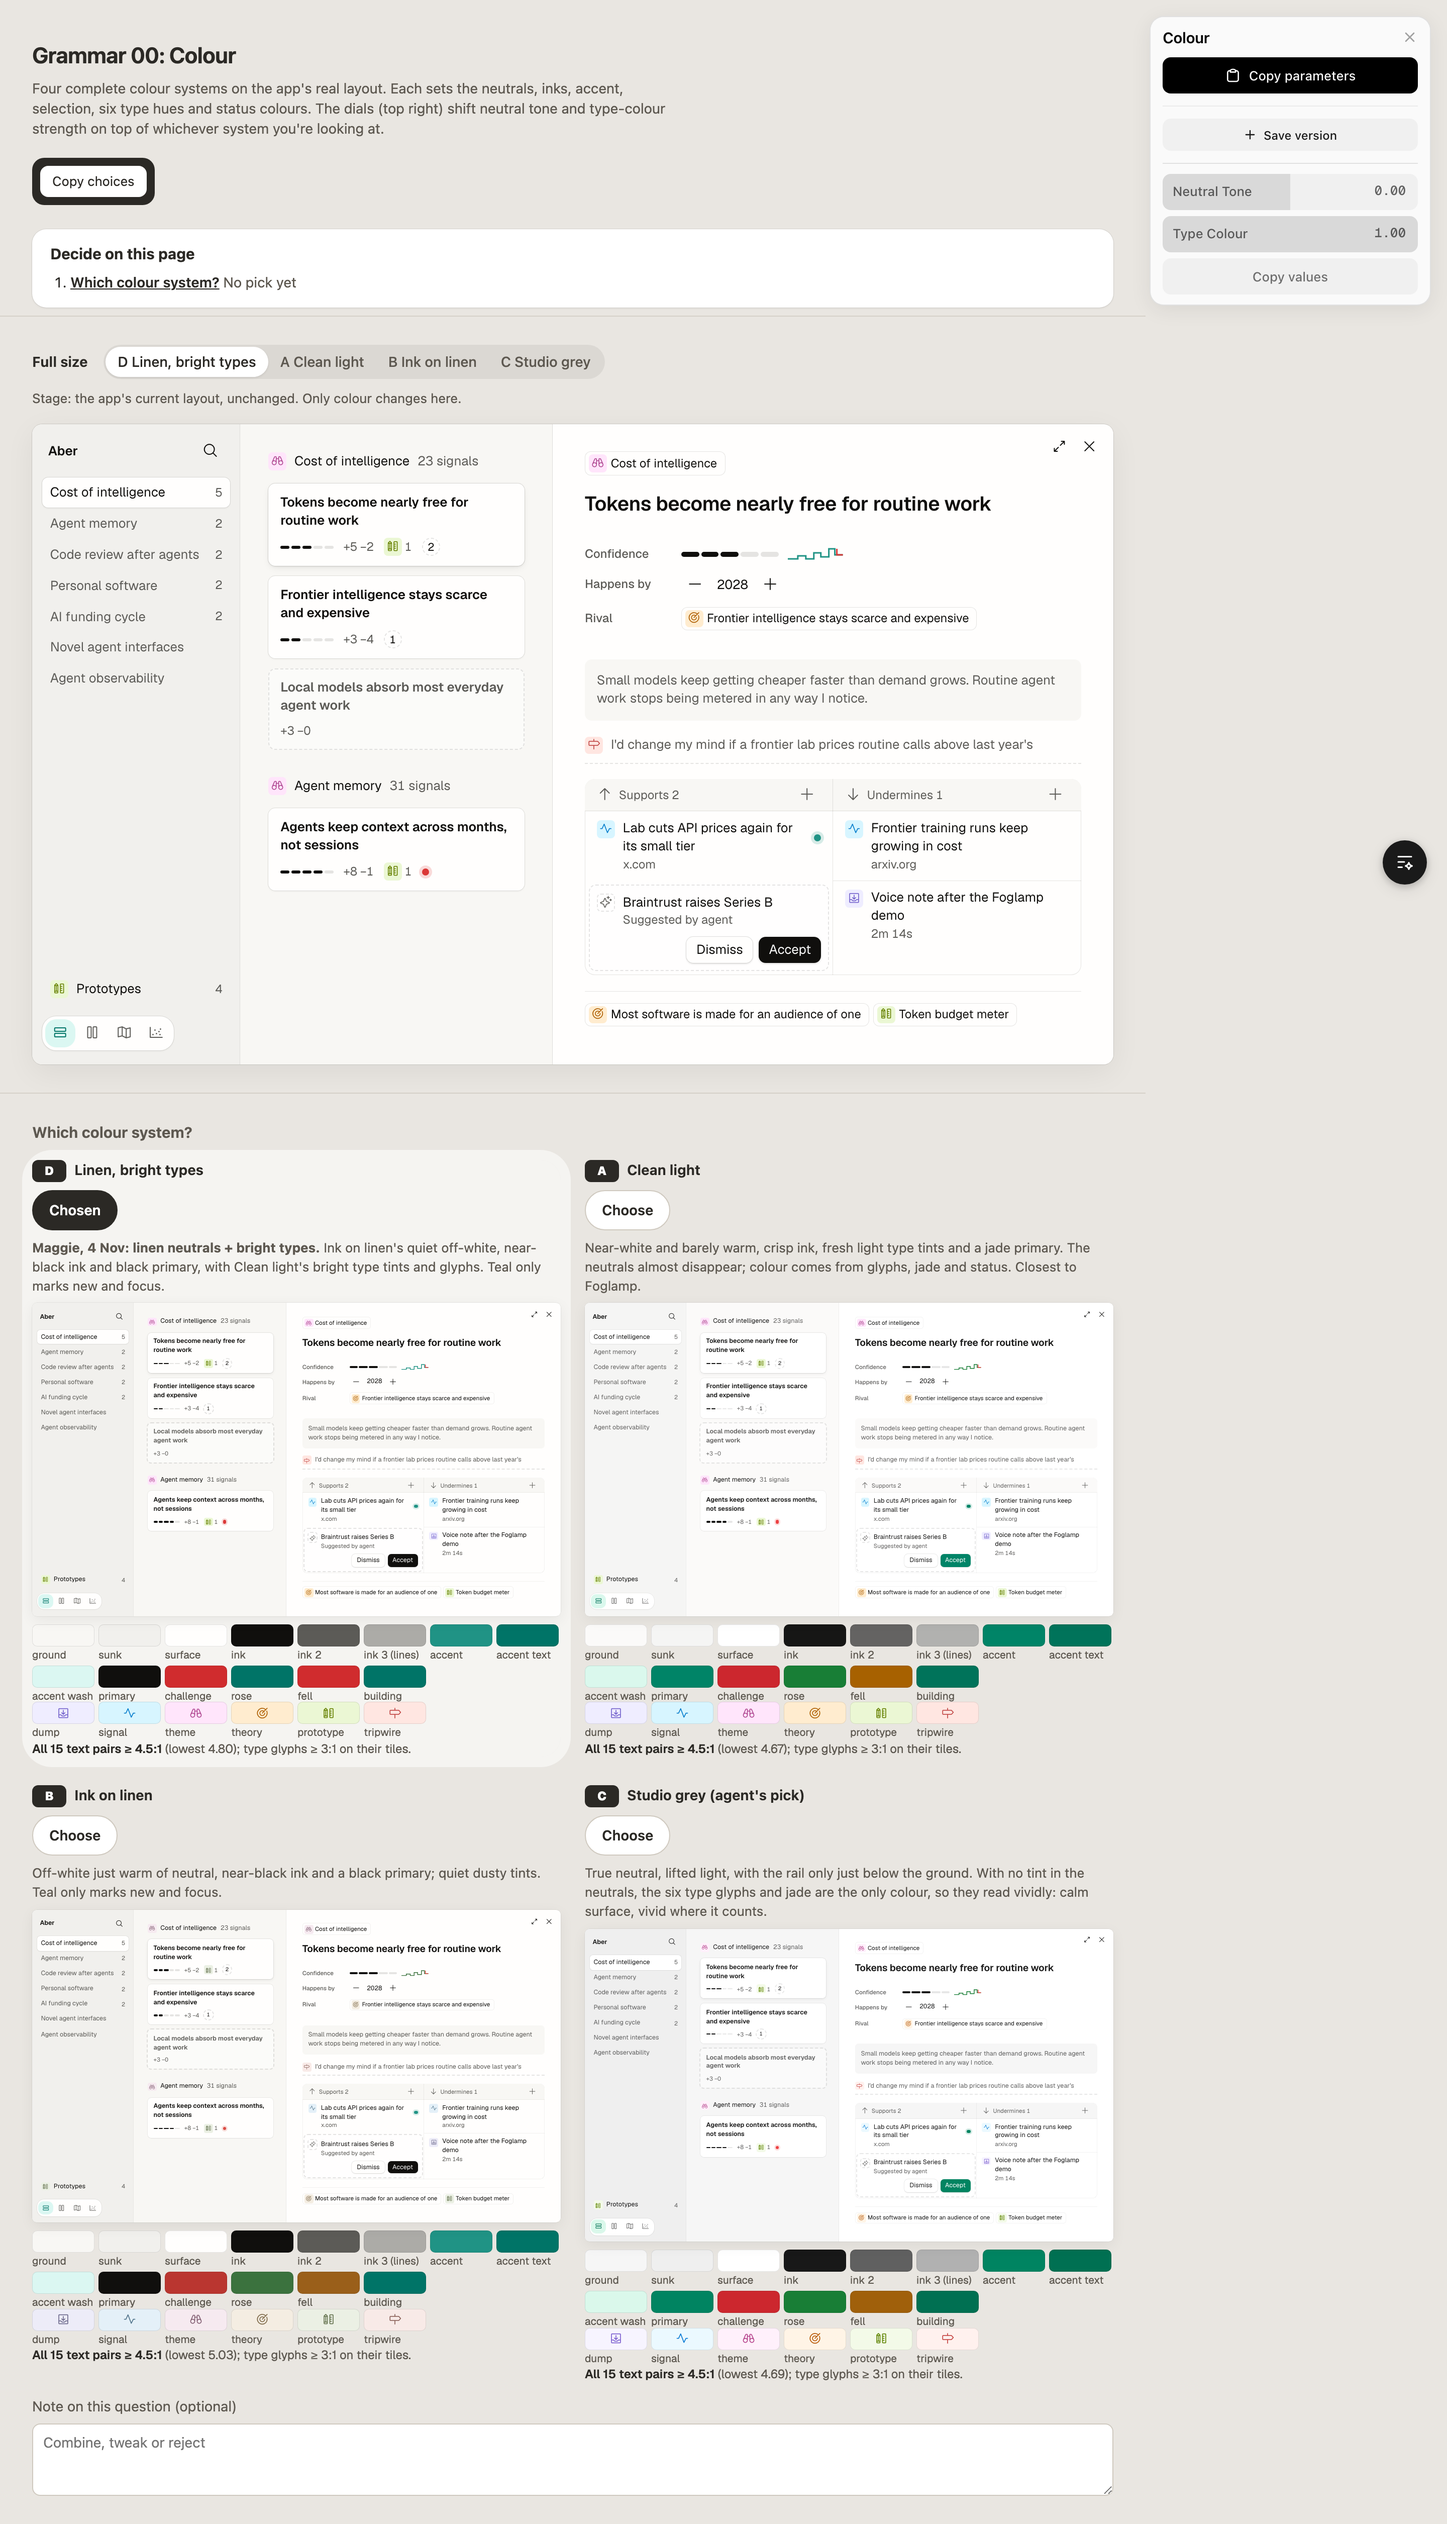
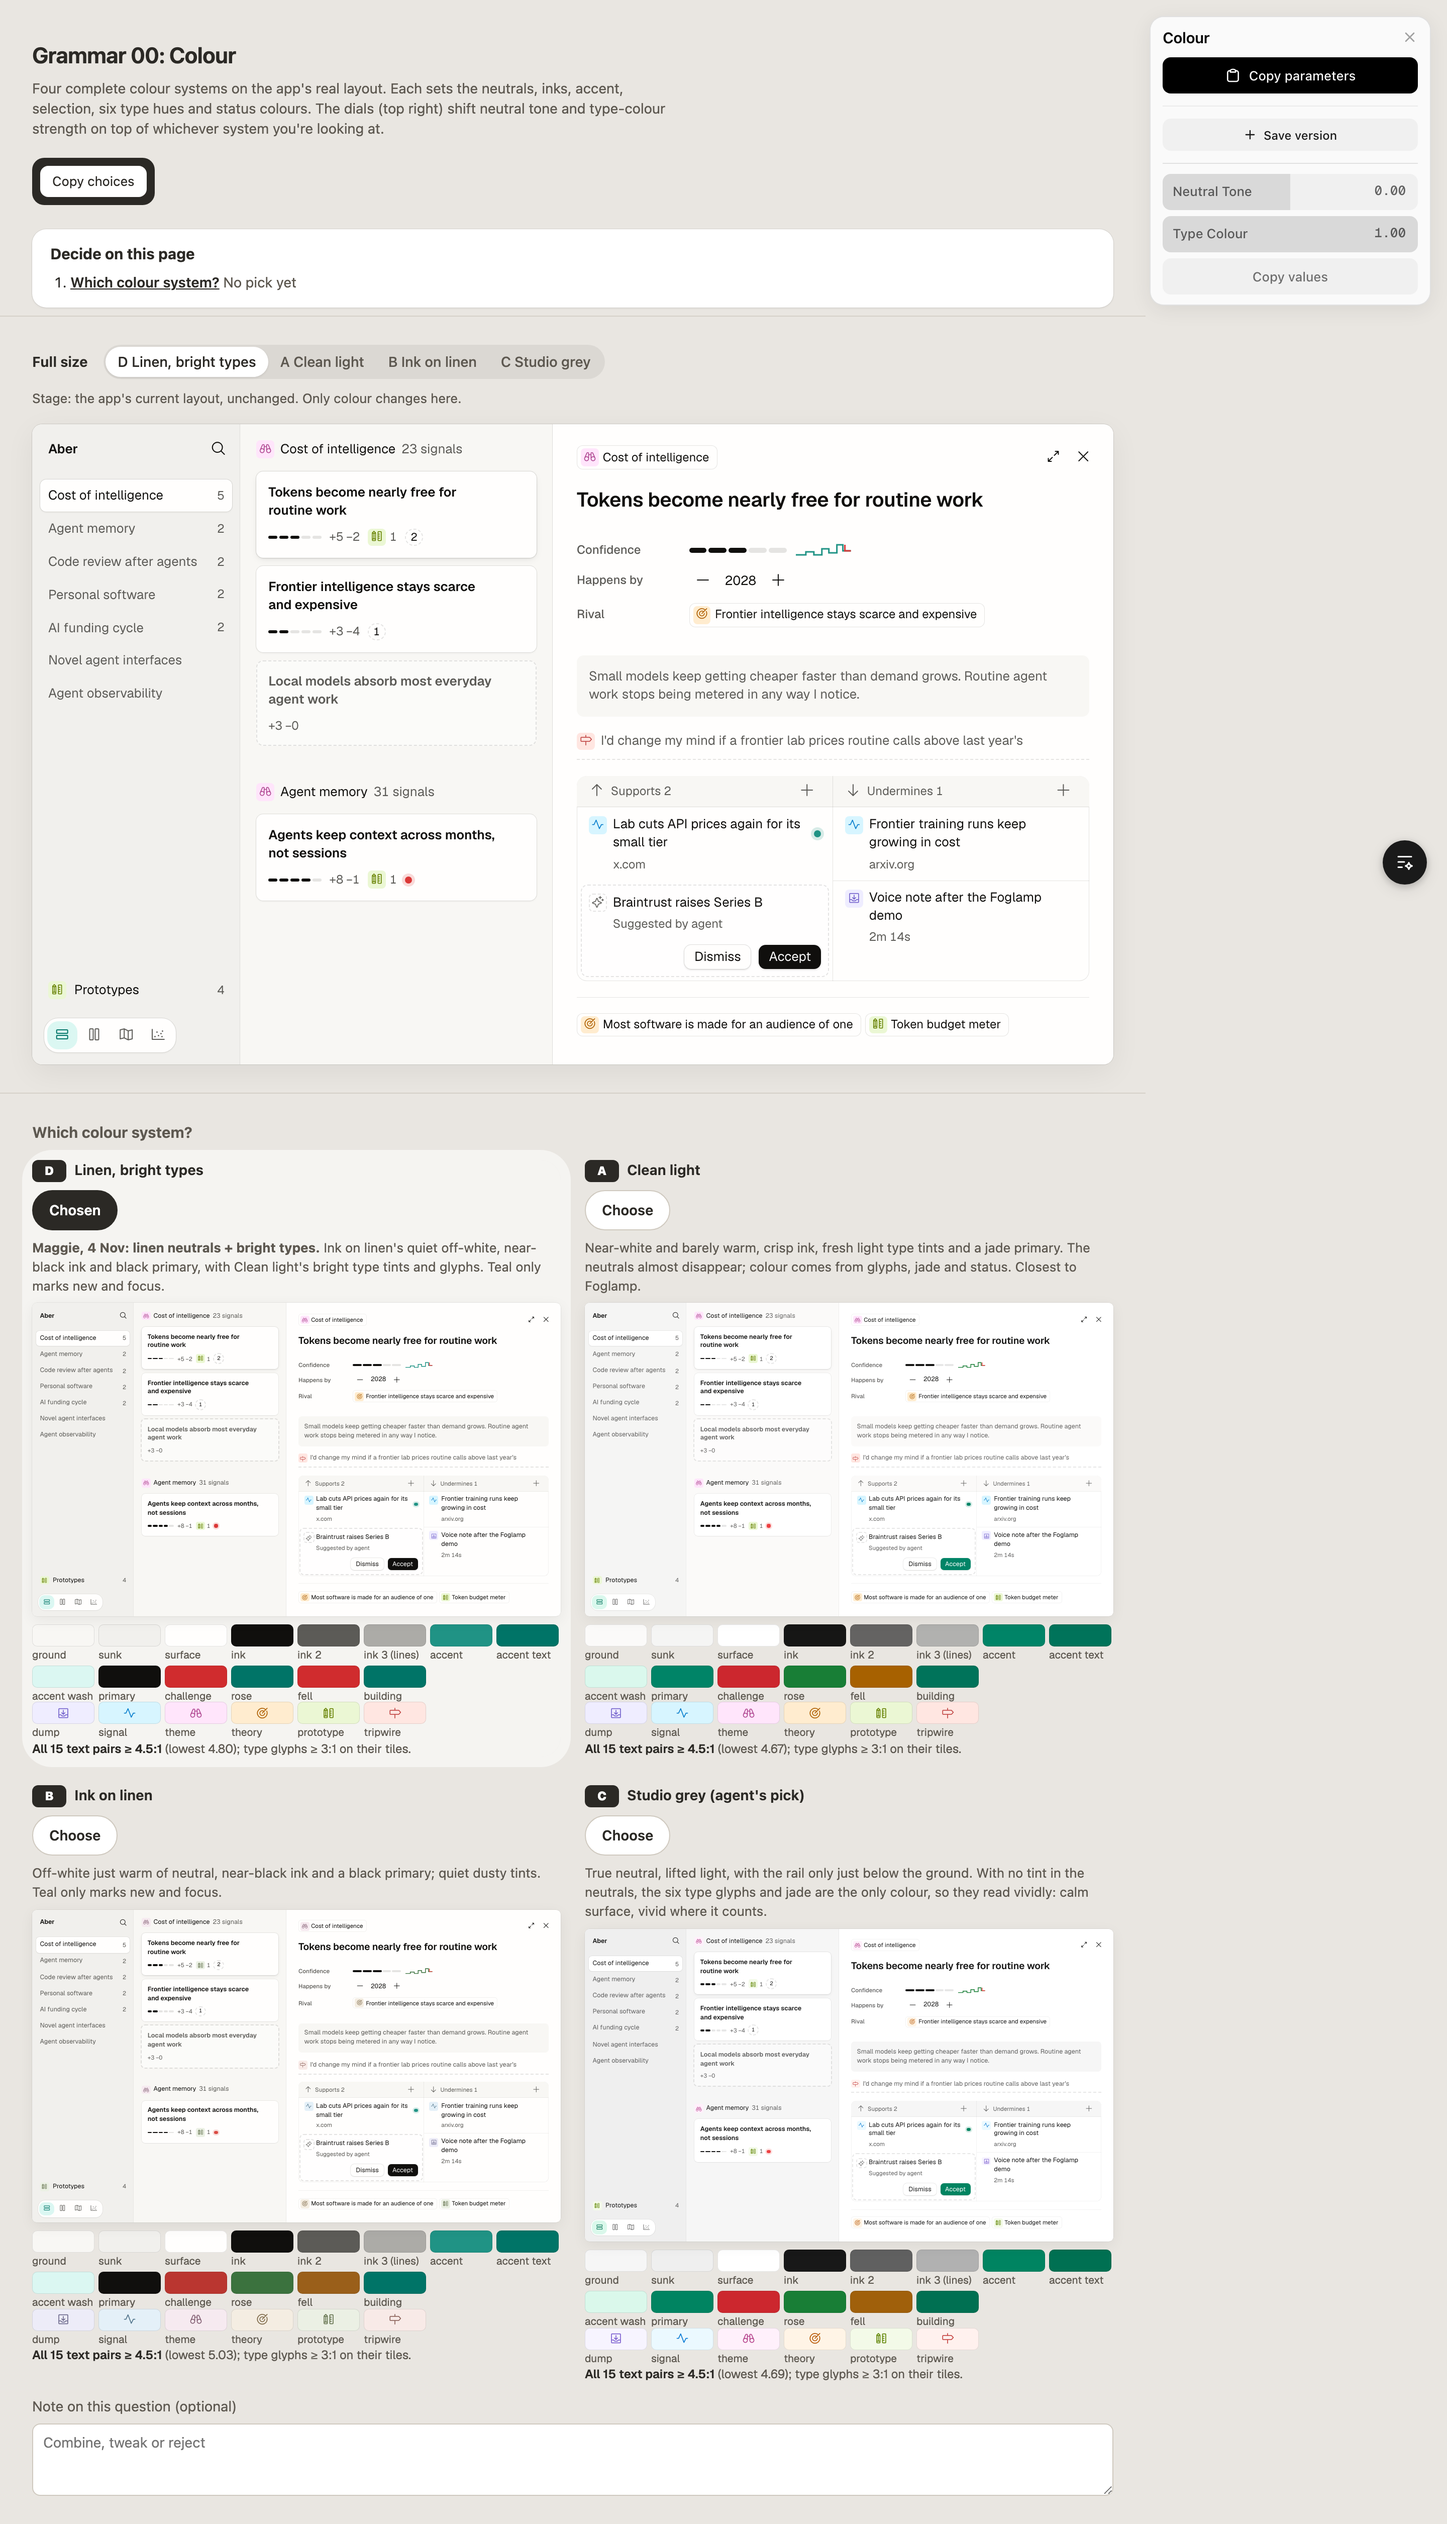
Grammar 01: spacing decided

diff --git a/design/grammar/01-spacing/index.html b/design/grammar/01-spacing/index.html
@@ -57,7 +57,7 @@
 </section>
 
 <section class="jig-section" id="rules">
-  <h2>The rules (proposed)</h2>
+  <h2>The rules (decided 4 Nov: Regular, separate cards)</h2>
   <ol class="rules">
     <li><b>One base unit: 4px.</b> Every padding, gap and height is a step on the scale <code>2 4 6 8 10 12 16 20 24 32 40</code>. Nothing else. 2 is for optical nudges only.</li>
     <li><b>Gaps climb a ladder, and each level is at least 1.5× the one inside it</b> (2× at Regular), so grouping reads without boxes:

diff --git a/design/grammar/01-foundations/index.html b/design/grammar/01-foundations/index.html
@@ -13,6 +13,7 @@
 <link rel="stylesheet" href="../../explorations/_shell/jig.css">
 <link rel="stylesheet" href="../_shared/tokens.css">
 <link rel="stylesheet" href="../_shared/stage.css">
+<link rel="stylesheet" href="../_shared/spacing.css">
 <link rel="stylesheet" href="foundations.css">
 <script src="https://cdn.jsdelivr.net/npm/dialkit@2.1.0/dist/vanilla/browser.global.js" defer></script>
 <script src="../../explorations/_shell/jig.js" defer></script>

diff --git a/design/grammar/00-colour/index.html b/design/grammar/00-colour/index.html
@@ -13,6 +13,7 @@
 <link rel="stylesheet" href="../../explorations/_shell/jig.css">
 <link rel="stylesheet" href="../_shared/tokens.css">
 <link rel="stylesheet" href="../_shared/stage.css">
+<link rel="stylesheet" href="../_shared/spacing.css">
 <link rel="stylesheet" href="colour.css">
 <script src="https://cdn.jsdelivr.net/npm/dialkit@2.1.0/dist/vanilla/browser.global.js" defer></script>
 <script src="../../explorations/_shell/jig.js" defer></script>

diff --git a/design/grammar/RULES.md b/design/grammar/RULES.md
@@ -53,7 +53,7 @@ All values are OKLCH. Jig: `00-colour/`.
 - **Dashed means not yet mine:** drafts and suggestions.
 - **Contrast.** Every text pair is at least 4.5:1; glyphs on their tiles are at least 3:1.
 
-## 01 Spacing — PROPOSED (choose on `01-spacing/`)
+## 01 Spacing — DECIDED (4 Nov 2026: Regular density; theories are separate cards with gaps)
 
 Evidence: today's CSS uses 36 distinct paddings, 18 gaps, 18 margins and 19 row or control heights, with odd one-offs (3, 5, 7, 9, 15, 35px).
 
@@ -98,16 +98,9 @@ Evidence: today's CSS uses 36 distinct paddings, 18 gaps, 18 margins and 19 row 
    - A hairline separates only uniform rows inside one container.
    - A container is for an object you act on, or a group that needs its own surface level.
 
-**Open:**
-- Density:
-
-| | Rows | Cards | Sections |
-| --- | --- | --- | --- |
-| Compact | 28 | 10 | 24 |
-| Regular | 32 | 12 | 32 |
-| Comfortable | 36 | 16 | 40 |
-
-- Middle-column theories: separate cards, or one container with dividers.
+**Decided (Maggie, 4 Nov):**
+- Density is **Regular**: the values above. Compact and Comfortable are not used.
+- The middle column's theories are **separate cards with gaps** (`--gap-item` between them), not one container with dividers.
 
 ## Still to come
 

diff --git a/design/grammar/PRIOR-DECISIONS.md b/design/grammar/PRIOR-DECISIONS.md
@@ -365,3 +365,5 @@ Compiled 4 Nov 2026 from everything on this branch before the grammar jigs. Read
 4 Nov 2026 (Maggie): per-type object colour is back (reverses 1 Nov). Neutrals should be warmer than Radix Sage; tone is a dial. The app's current layout and navigation are liked and stay; jigs restyle, they don't re-layout. The right pane aligns to the top of the main area.
 
 4 Nov 2026 (Maggie): colour system D 'Linen, bright types' leads. Status uses two meanings only: green = up/accent (rose = accent / accent text), red = down/challenge/bad (fell = challenge). No separate amber for fell.
+
+4 Nov 2026 (Maggie, 01-spacing): density is Regular (4px base; gaps 4/6/8/16/32; insets chip 8, control 10, row 8, card 12; region insets nav 12/8, list 12/16, pane 20/24; canvas 16, floating controls 12; rows 32, controls 28). Middle-column theories are separate cards with gaps. Padding grows with focus: navigation < list < pane.
